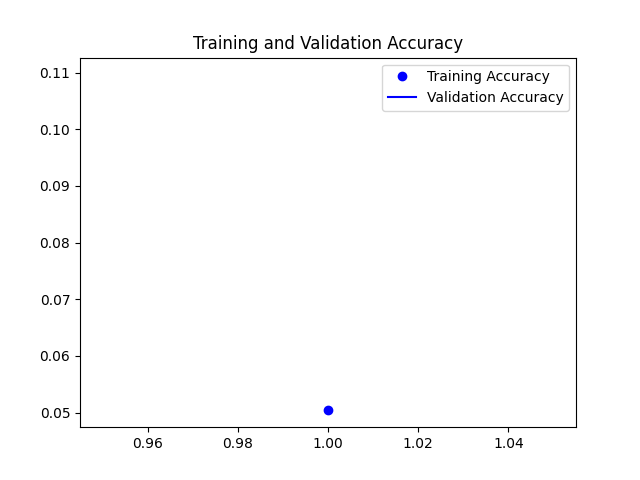
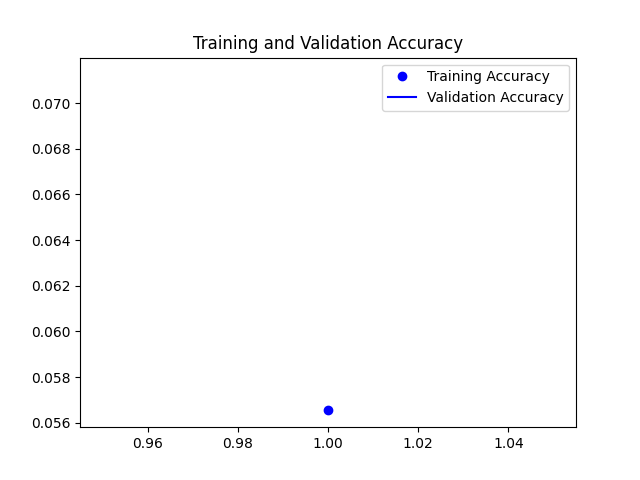
Method3
ResNET transfer learning and CNN training

diff --git a/ResNet Transfer Learning/ResNet.py b/ResNet Transfer Learning/ResNet.py
@@ -1,0 +1,147 @@
+# https://www.tensorflow.org/tutorials/images/transfer_learning?hl=tr
+
+import matplotlib.pyplot as plt
+import numpy as np
+import os
+import tensorflow as tf
+
+
+train_dir = "train"
+test_dir = "test"
+validation_dir = "valid"
+
+batch_size = 32
+IMG_SIZE = (160, 160)
+
+train_dataset = tf.keras.utils.image_dataset_from_directory(
+    train_dir,
+    shuffle=True,
+    batch_size=batch_size,
+    image_size=IMG_SIZE,
+    label_mode="categorical",
+)
+
+validation_dateset = tf.keras.utils.image_dataset_from_directory(
+    validation_dir,
+    shuffle=True,
+    batch_size=batch_size,
+    image_size=IMG_SIZE,
+    label_mode="categorical",
+)
+
+test_dataset = tf.keras.utils.image_dataset_from_directory(
+    test_dir,
+    shuffle=True,
+    batch_size=batch_size,
+    image_size=IMG_SIZE,
+    label_mode="categorical",
+)
+
+class_names = train_dataset.class_names
+
+AUTOTUNE = tf.data.AUTOTUNE
+
+train_dataset = train_dataset.prefetch(buffer_size=AUTOTUNE)
+validation_dataset = validation_dateset.prefetch(buffer_size=AUTOTUNE)
+test_dataset = test_dataset.prefetch(buffer_size=AUTOTUNE)
+
+data_augmentation = tf.keras.Sequential(
+    [
+        tf.keras.layers.RandomFlip("horizontal"),
+        tf.keras.layers.RandomRotation(0.2),
+        tf.keras.layers.RandomZoom(0.1),
+    ]
+)
+
+preprocess_input = tf.keras.applications.resnet.preprocess_input
+rescale = tf.keras.layers.Rescaling(1.0 / 255.0)
+
+IMG_SIZE = IMG_SIZE + (3,)  # add the channel dimension
+
+base_model = tf.keras.applications.ResNet50(
+    input_shape=IMG_SIZE, include_top=False, weights="imagenet"
+)
+
+image_batch, label_batch = next(iter(train_dataset))
+feature_batch = base_model(image_batch)
+print(feature_batch.shape)
+
+base_model.trainable = False  # freeze the base model for transfer learning
+
+
+base_model.summary()  # print the summary of the base model
+
+global_average_layer = tf.keras.layers.GlobalAveragePooling2D()
+feature_batch_average = global_average_layer(feature_batch)
+print(feature_batch_average.shape)
+
+prediction_layer = tf.keras.layers.Dense(1)
+prediction_batch = prediction_layer(feature_batch_average)
+print(prediction_batch.shape)
+
+inputs = tf.keras.Input(shape=(160, 160, 3))
+x = data_augmentation(inputs)
+x = preprocess_input(x)
+x = base_model(x, training=False)
+x = global_average_layer(x)
+x = tf.keras.layers.Dropout(0.2)(x)
+outputs = prediction_layer(x)
+model = tf.keras.Model(inputs, outputs)
+
+base_learning_rate = 0.0001
+model.compile(
+    optimizer=tf.keras.optimizers.Adam(learning_rate=base_learning_rate),
+    loss=tf.keras.losses.BinaryCrossentropy(from_logits=True),
+    metrics=["accuracy"],
+)
+
+model.summary()
+
+len(model.trainable_variables)
+
+# Train the model
+
+initial_epochs = 10
+
+loss0, accuracy0 = model.evaluate(validation_dataset)
+
+print("initial loss: {:.2f}".format(loss0))
+print("initial accuracy: {:.2f}".format(accuracy0))
+
+history = model.fit(
+    train_dataset, epochs=initial_epochs, validation_data=validation_dataset
+)
+
+# Learning curves
+
+acc = history.history["accuracy"]
+val_acc = history.history["val_accuracy"]
+
+loss = history.history["loss"]
+val_loss = history.history["val_loss"]
+
+plt.figure(figsize=(8, 8))
+plt.subplot(2, 1, 1)
+plt.plot(acc, label="Training Accuracy")
+plt.plot(val_acc, label="Validation Accuracy")
+plt.legend(loc="lower right")
+plt.ylabel("Accuracy")
+plt.ylim([min(plt.ylim()), 1])
+plt.title("Training and Validation Accuracy")
+
+plt.subplot(2, 1, 2)
+plt.plot(loss, label="Training Loss")
+plt.plot(val_loss, label="Validation Loss")
+plt.legend(loc="upper right")
+plt.ylabel("Cross Entropy")
+plt.ylim([0, 1.0])
+plt.title("Training and Validation Loss")
+plt.xlabel("epoch")
+plt.show()
+
+# save plot
+plt.savefig("Learning_curves.png")
+
+# save the model
+
+model.save("ResNet_model.h5")

diff --git a/CNN/CNN_training.py b/CNN/CNN_training.py
@@ -18,7 +18,7 @@ import tensorflow as tf
 def crop_to_target_size(image):
     # TensorFlow'un resize_with_crop_or_pad fonksiyonu, hedef boyutu geçtiğinde kırpma, eksik olduğunda doldurma yapar.
     # Burada, resmi her zaman hedef boyuta kırpıyoruz.
-    return resize_with_crop_or_pad(image, target_height=300, target_width=300)
+    return resize_with_crop_or_pad(image, target_height=128, target_width=128)
 
 
 # ImageDataGenerator nesnelerini güncelleme
@@ -47,18 +47,18 @@ validation_datagen = ImageDataGenerator(
 
 train_generator = train_datagen.flow_from_directory(
     train_dir,
-    target_size=(300, 300),
+    target_size=(128, 128),
     batch_size=50,
     class_mode="categorical",
     shuffle=True,
 )
 
 test_generator = test_datagen.flow_from_directory(
-    test_dir, target_size=(300, 300), batch_size=50, class_mode="categorical"
+    test_dir, target_size=(128, 128), batch_size=50, class_mode="categorical"
 )
 
 validation_generator = validation_datagen.flow_from_directory(
-    test_dir, target_size=(300, 300), batch_size=50, class_mode="categorical"
+    test_dir, target_size=(128, 128), batch_size=50, class_mode="categorical"
 )
 
 # Construct the model
@@ -68,7 +68,7 @@ from tensorflow.keras import models, layers
 model = tf.keras.models.Sequential(
     [
         tf.keras.layers.Conv2D(
-            32, (3, 3), activation="relu", input_shape=(300, 300, 3)
+            32, (3, 3), activation="relu", input_shape=(128, 128, 3)
         ),
         layers.MaxPooling2D(2, 2),
         layers.Conv2D(64, (3, 3), activation="relu"),
@@ -94,15 +94,24 @@ model.compile(
 
 history = model.fit(
     train_generator,
-    steps_per_epoch=100,
-    epochs=5,
+    steps_per_epoch=150,
+    epochs=128,
     validation_data=test_generator,
     validation_steps=50,
     verbose=1,
 )
 
 
-model.save("model.h5")
+model.save("CNN_model.h5")
+
+# save CNN architecture as text file
+with open("CNN_model_architecture.txt", "w") as f:
+    model.summary(print_fn=lambda x: f.write(x + "\n"))
+
+# save layers as text file
+with open("CNN_model_layers.txt", "w") as f:
+    for layer in model.layers:
+        f.write(str(layer) + "\n")
 
 import matplotlib.pyplot as plt
 
